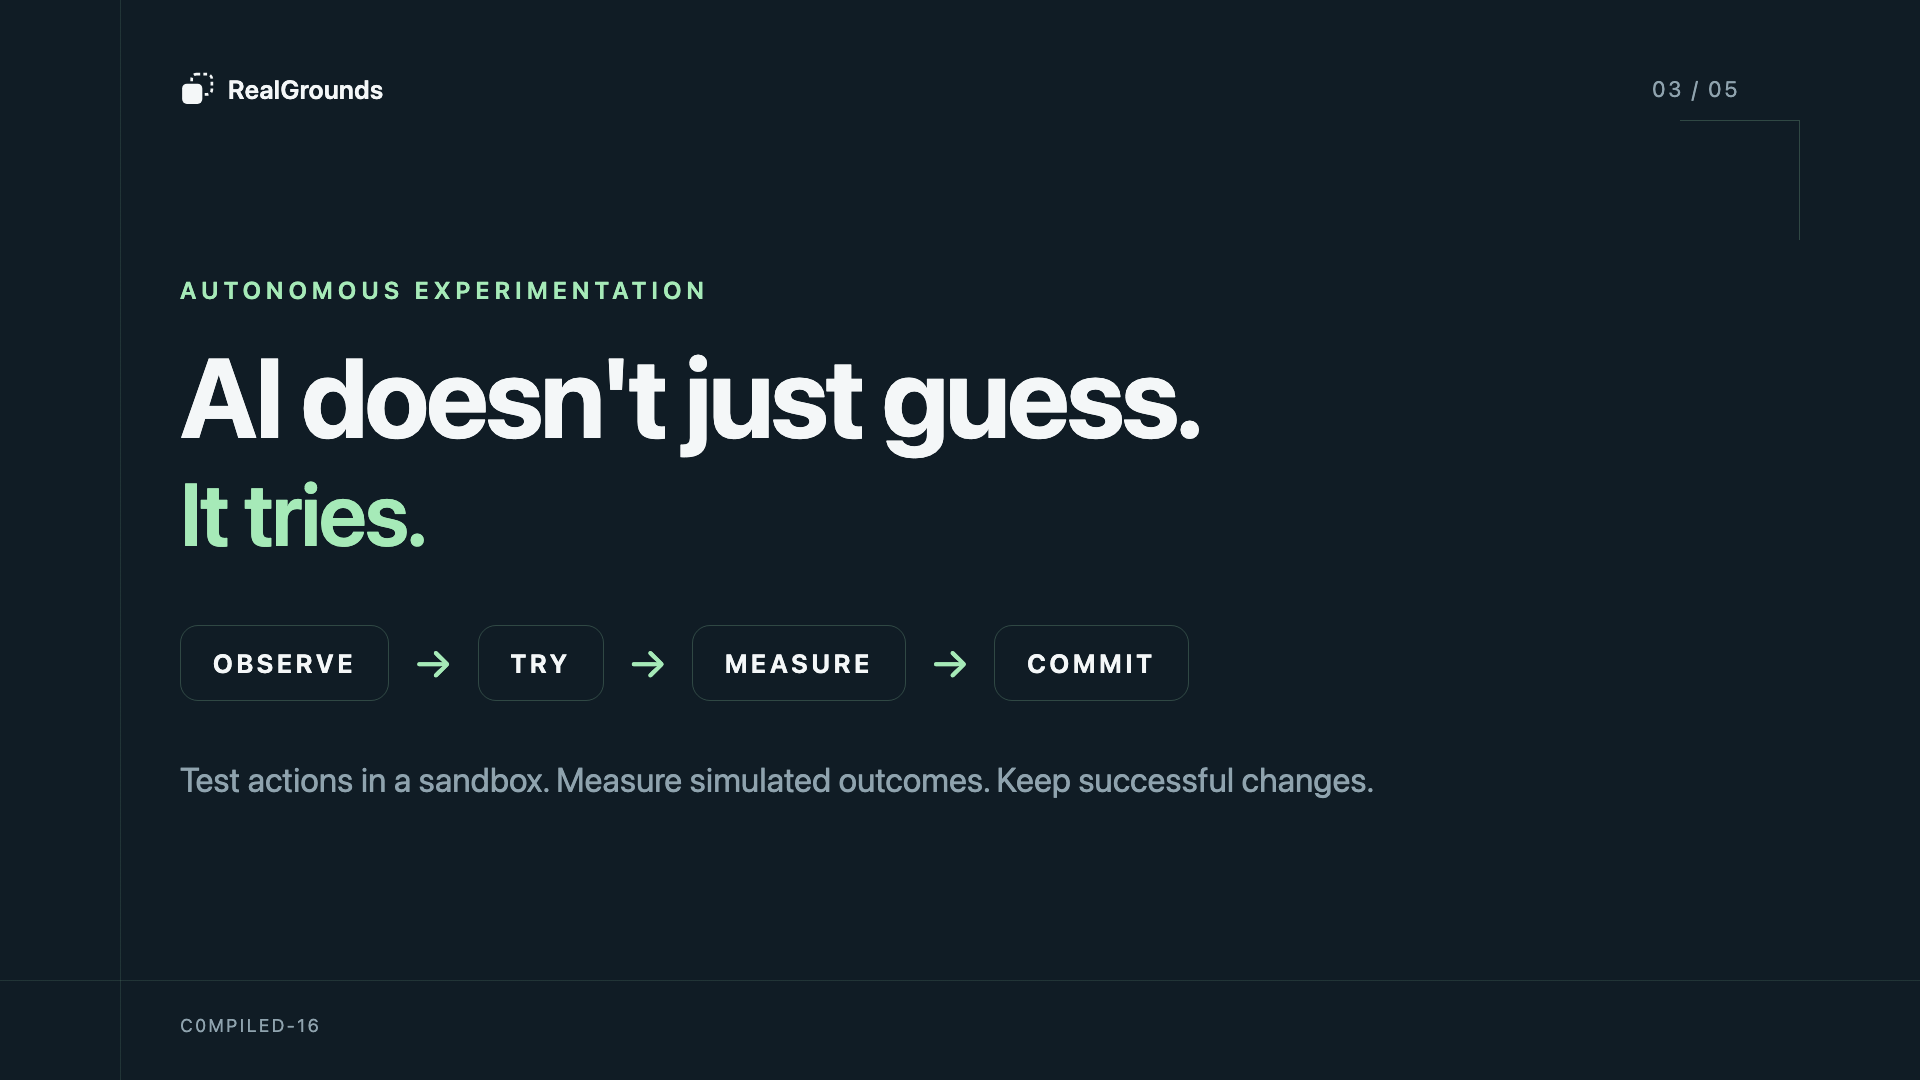
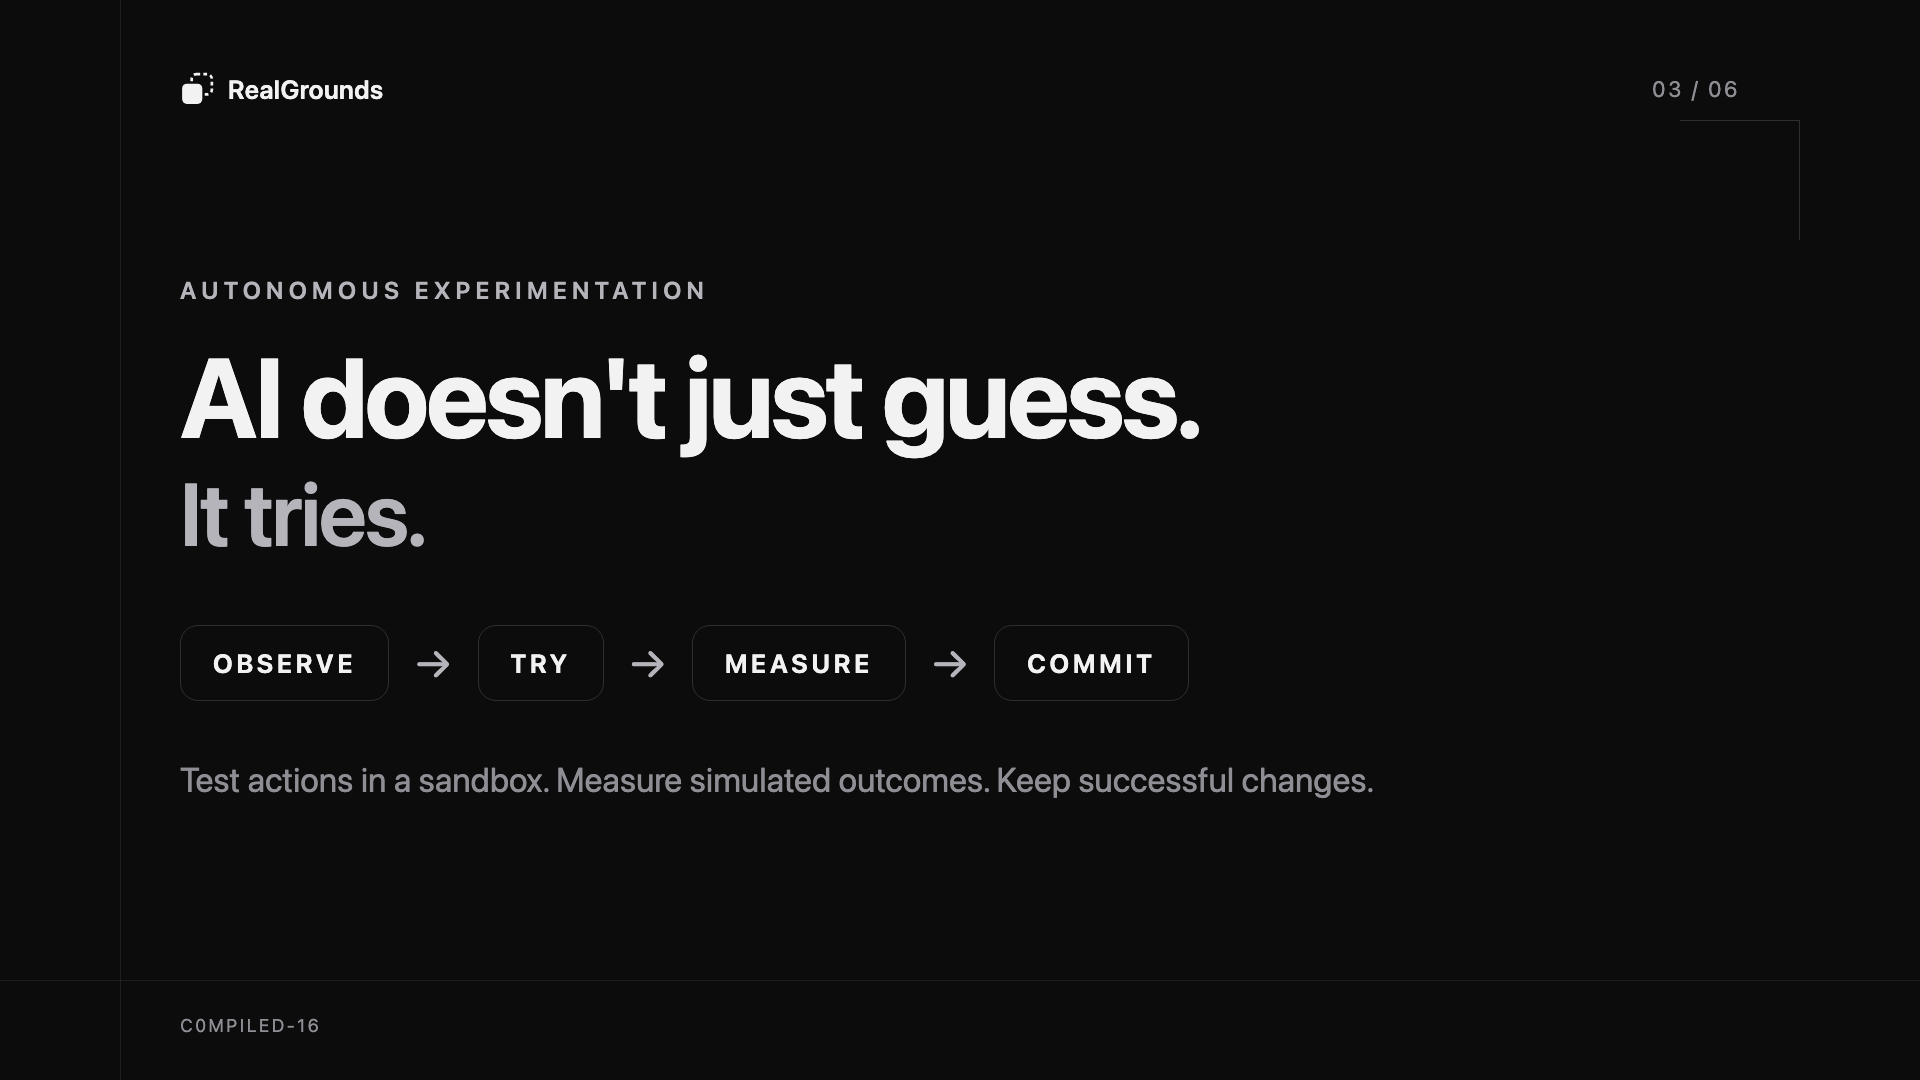
Run-it-yourself instructions on the site; experiments slide; slides in the site's colours

diff --git a/video_slides/slides.html b/video_slides/slides.html
@@ -5,9 +5,9 @@
 <meta name="viewport" content="width=device-width, initial-scale=1">
 <title>RealGrounds Video Slides</title>
 <style>
-:root { --bg: #101C25; --mint: #A6EAB8; --white: #F4F7F8; --dim: #8FA3AE; --line: rgba(166, 234, 184, .22); }
+:root { --bg: #0c0c0d; --mint: #b4b4ba; --white: #f2f2f3; --dim: #8e8e94; --line: rgba(255, 255, 255, .14); --card: #161617; }
 * { box-sizing: border-box; margin: 0; }
-html, body { background: #05090c; }
+html, body { background: #000; }
 body { font-family: -apple-system, BlinkMacSystemFont, "SF Pro Display", "Segoe UI", Inter, Helvetica, Arial, sans-serif; color: var(--white); }
 .slide { width: 1920px; height: 1080px; background: var(--bg); position: relative; overflow: hidden; display: none; padding: 0 180px; }
 .slide.on { display: flex; flex-direction: column; justify-content: center; }
@@ -40,6 +40,16 @@ h2 { font-size: 88px; line-height: 1.08; font-weight: 600; letter-spacing: -.02e
 .close { margin-top: 70px; padding-top: 44px; border-top: 1.5px solid var(--line); display: flex; align-items: baseline; gap: 40px; }
 .close strong { font-size: 54px; font-weight: 700; }
 .close span { font-size: 32px; color: var(--mint); }
+/* experiments slide */
+.exps { display: grid; grid-template-columns: repeat(3, 1fr); gap: 36px; margin-top: 60px; }
+.exp { background: var(--card); border: 1.5px solid var(--line); border-radius: 18px; overflow: hidden; }
+.exp img { width: 100%; display: block; aspect-ratio: 800 / 564; object-fit: cover; }
+.exp .b { padding: 22px 26px 26px; }
+.exp h3 { font-size: 34px; font-weight: 700; display: flex; justify-content: space-between; align-items: center; }
+.exp .tag { font-size: 18px; font-weight: 650; border: 1.5px solid currentColor; border-radius: 999px; padding: 4px 14px; letter-spacing: .02em; }
+.exp .what { font-size: 22px; color: var(--dim); margin-top: 10px; line-height: 1.4; }
+.exp .nums { font-size: 20px; color: var(--white); margin-top: 14px; letter-spacing: .02em; }
+.ok { color: #f2f2f3; } .stop { color: #d9a441; } .no { color: #b9bcc4; }
 /* slideshow preview (not in the PNGs) */
 body.show { display: grid; place-items: center; height: 100vh; overflow: hidden; }
 body.show .slide { transform-origin: center; }
@@ -53,7 +63,7 @@ body.show .slide { transform-origin: center; }
   <rect x="4" y="22" width="38" height="38" rx="9" fill="currentColor"/></symbol></svg>
 
 <section class="slide" data-n="1">
-  <div class="brand"><svg width="34" height="34"><use href="#logo"/></svg>RealGrounds</div><div class="num">01 / 05</div><div class="corner"></div>
+  <div class="brand"><svg width="34" height="34"><use href="#logo"/></svg>RealGrounds</div><div class="num">01 / 06</div><div class="corner"></div>
   <div class="kicker">The problem</div>
   <h1>AI can see the world.</h1>
   <h2>But can it predict what happens next?</h2>
@@ -62,7 +72,7 @@ body.show .slide { transform-origin: center; }
 </section>
 
 <section class="slide" data-n="2">
-  <div class="brand"><svg width="34" height="34"><use href="#logo"/></svg>RealGrounds</div><div class="num">02 / 05</div><div class="corner"></div>
+  <div class="brand"><svg width="34" height="34"><use href="#logo"/></svg>RealGrounds</div><div class="num">02 / 06</div><div class="corner"></div>
   <div class="kicker">The solution</div>
   <h1>From photos to physics.</h1>
   <div class="flow">
@@ -75,7 +85,7 @@ body.show .slide { transform-origin: center; }
 </section>
 
 <section class="slide" data-n="3">
-  <div class="brand"><svg width="34" height="34"><use href="#logo"/></svg>RealGrounds</div><div class="num">03 / 05</div><div class="corner"></div>
+  <div class="brand"><svg width="34" height="34"><use href="#logo"/></svg>RealGrounds</div><div class="num">03 / 06</div><div class="corner"></div>
   <div class="kicker">Autonomous experimentation</div>
   <h1>AI doesn't just guess.</h1>
   <h2>It tries.</h2>
@@ -88,7 +98,7 @@ body.show .slide { transform-origin: center; }
 </section>
 
 <section class="slide" data-n="4">
-  <div class="brand"><svg width="34" height="34"><use href="#logo"/></svg>RealGrounds</div><div class="num">04 / 05</div><div class="corner"></div>
+  <div class="brand"><svg width="34" height="34"><use href="#logo"/></svg>RealGrounds</div><div class="num">04 / 06</div><div class="corner"></div>
   <div class="kicker">Track 3 · Unsupervised</div>
   <h1>Autonomous. Not uncontrolled.</h1>
   <div class="grid4">
@@ -102,7 +112,23 @@ body.show .slide { transform-origin: center; }
 </section>
 
 <section class="slide" data-n="5">
-  <div class="brand"><svg width="34" height="34"><use href="#logo"/></svg>RealGrounds</div><div class="num">05 / 05</div><div class="corner"></div>
+  <div class="brand"><svg width="34" height="34"><use href="#logo"/></svg>RealGrounds</div><div class="num">05 / 06</div><div class="corner"></div>
+  <div class="kicker">The experiments · hand-made test rooms</div>
+  <h1 style="font-size:84px">Three rooms. One task.</h1>
+  <p class="sub" style="margin-top:22px">Walk through the gap to the far side. Recorded runs, Claude Haiku 5.5 planning.</p>
+  <div class="exps">
+    <div class="exp"><img src="exp_light.png" alt=""><div class="b"><h3>Light <span class="tag ok">✓ Solved</span></h3>
+      <div class="what">A 1 kg box blocks the gap. It moves the box onto the dresser.</div><div class="nums">1 try · 1 kept · $0.0007</div></div></div>
+    <div class="exp"><img src="exp_heavy.png" alt=""><div class="b"><h3>Heavy <span class="tag stop">! Stopped</span></h3>
+      <div class="what">A 40 kg test box; the arm lifts 15 kg. Stuck, so it asks for help.</div><div class="nums">4 tries · 0 kept · $0.0010</div></div></div>
+    <div class="exp"><img src="exp_wall.png" alt=""><div class="b"><h3>Wall <span class="tag no">⊘ Impossible</span></h3>
+      <div class="what">Fixed furniture fills the gap. It stops at once, tries nothing.</div><div class="nums">0 tries · $0</div></div></div>
+  </div>
+  <div class="foot">c0mpiled-16 · simulated results</div>
+</section>
+
+<section class="slide" data-n="6">
+  <div class="brand"><svg width="34" height="34"><use href="#logo"/></svg>RealGrounds</div><div class="num">06 / 06</div><div class="corner"></div>
   <div class="kicker">Results</div>
   <div class="metrics">
     <div class="metric"><b>44<span>/44</span></b><div>Automated tests passed</div></div>
@@ -128,8 +154,8 @@ function show() {
   }
 }
 if (exportMode) document.getElementById("hint").remove(); else document.body.classList.add("show");
-addEventListener("keydown", (e) => { if (e.key === "ArrowRight" || e.key === " ") i = Math.min(i + 1, 4); if (e.key === "ArrowLeft") i = Math.max(i - 1, 0); show(); });
-addEventListener("click", () => { i = (i + 1) % 5; show(); });
+addEventListener("keydown", (e) => { if (e.key === "ArrowRight" || e.key === " ") i = Math.min(i + 1, 5); if (e.key === "ArrowLeft") i = Math.max(i - 1, 0); show(); });
+addEventListener("click", () => { i = (i + 1) % 6; show(); });
 addEventListener("resize", show);
 show();
 </script>

diff --git a/web/index.html b/web/index.html
@@ -17,6 +17,7 @@
       <a href="#lab">Live Lab</a>
       <a href="#safety">Safety</a>
       <a href="#results">Results</a>
+      <a href="#run">Run it yourself</a>
     </nav>
     <div class="pill" id="budget" title="The app's own supervisor: Claude is refused once this budget is spent">Claude budget …</div>
   </div>
@@ -91,7 +92,7 @@
 
     <div class="card static-note"><h3>Published snapshot</h3><p class="muted">Explore the rooms below as they were
       measured. Running the agent, uploading a photo and running the tests need the local app:
-      <code>python app.py</code> in the project folder.</p></div>
+      <code>python app.py</code> in the project folder. See <a href="#run">Run it yourself</a>.</p></div>
     <div class="card step">
       <div class="step-n">1</div>
       <div class="step-body">
@@ -219,6 +220,56 @@
         <li><b>The loop detector has not triggered in a real run.</b> Loops can't be kept (only measurable improvement is kept), and repeated proposals are refused before they run.</li>
         <li><b>Claude's plans vary between runs</b>; the physics does not. That is why solutions are re-checked by replay.</li>
       </ul></div>
+  </div>
+</section>
+<!-- ================================================================ RUN IT YOURSELF -->
+<section class="view" id="view-run">
+  <div class="wrap">
+    <p class="eyebrow">Run it yourself</p>
+    <h2 class="page">Reproduce the experiments</h2>
+    <p class="sec-sub">Everything on this site comes from code you can run. The three experiments need only the physics
+      engine: no vision models, no GPU. Claude is optional; the fixed-rules planner is free and needs no key.</p>
+
+    <div class="card step"><div class="step-n">1</div><div class="step-body">
+      <h3>Get the code and install</h3>
+      <p class="muted">Tested on macOS (Apple Silicon) with Python 3.14.</p>
+<pre class="cmd">git clone &lt;repository URL from our submission&gt; realgrounds
+cd realgrounds
+python3 -m venv .venv &amp;&amp; source .venv/bin/activate
+pip install numpy opencv-python pyyaml mujoco anthropic</pre>
+    </div></div>
+
+    <div class="card step"><div class="step-n">2</div><div class="step-body">
+      <h3>Run the three experiments (about 10 seconds each)</h3>
+<pre class="cmd">python run_task.py --scene light --planner rules --video   # solved: the box is moved out of the way
+python run_task.py --scene heavy --planner rules --video   # stops: 40 kg test box, the arm lifts 15 kg
+python run_task.py --scene wall  --planner rules           # stops at once: impossible by geometry</pre>
+      <p class="muted">Each run writes <code>outputs/tasks/&lt;scene&gt;/</code>: <code>report.md</code> (every try, what was
+        kept, the supervisor's decision), <code>video.mp4</code> and <code>stills.png</code>.</p>
+    </div></div>
+
+    <div class="card step"><div class="step-n">3</div><div class="step-body">
+      <h3>Let Claude plan (optional)</h3>
+<pre class="cmd">echo "ANTHROPIC_API_KEY=sk-ant-..." &gt; .env              # stays local, git-ignored
+python run_task.py --scene heavy --planner claude --video  # about $0.001 per run with Claude Haiku 5.5</pre>
+      <p class="muted">Try the stop rules: <code>--max-tries 1</code> stops on the attempt limit. Every Claude call is priced and
+        counted; the supervisor stops a task when its budget is spent.</p>
+    </div></div>
+
+    <div class="card step"><div class="step-n">4</div><div class="step-body">
+      <h3>Check the claims</h3>
+<pre class="cmd">pip install pillow matplotlib trimesh
+python -m unittest discover -s tests -t .                 # 44 tests, about 7 s, no network, no cost</pre>
+    </div></div>
+
+    <div class="card step"><div class="step-n">5</div><div class="step-body">
+      <h3>The full app and your own photos</h3>
+<pre class="cmd">pip install -r requirements.txt                          # plus MoGe-2, see requirements.txt
+python app.py                                             # this site, live, at http://127.0.0.1:8000</pre>
+      <p class="muted">Rebuilding rooms from photos needs the four vision models in <code>models/</code> (MoGe-2, SegFormer,
+        Grounding DINO, SAM; about a minute per photo on an M-series Mac). The README lists them. With the app running, every
+        button on this site works: run the experiments live, upload a photo, run the tests.</p>
+    </div></div>
   </div>
 </section>
 </main>

diff --git a/web/app.js b/web/app.js
@@ -94,9 +94,9 @@ const plannerName = (p) => p === "fixed rules" ? "fixed rules (no AI)" : (p || "
 const clean = (s) => String(s || "").replace(/^[✗✓↩\s]+/, "").replace(/^refused:\s*/, "");
 
 // ================================================================ router
-const VIEWS = ["overview", "experiments", "lab", "safety", "results"];
+const VIEWS = ["overview", "experiments", "lab", "safety", "results", "run"];
 const ALIAS = { try: "lab", stops: "experiments", runs: "results" };
-const LOADERS = { overview: loadOverview, experiments: loadExperiments, lab: loadLab, safety: loadSafety, results: loadResults };
+const LOADERS = { overview: loadOverview, experiments: loadExperiments, lab: loadLab, safety: loadSafety, results: loadResults, run: () => {} };
 function route() {
   let [v, q] = location.hash.slice(1).split("?");
   v = ALIAS[v] || v;

diff --git a/web/style.css b/web/style.css
@@ -242,3 +242,5 @@ figcaption { font-size: 12.5px; color: var(--muted); margin-top: 4px; }
 body.static .static-note { display: block; }
 body.static .live-only { display: none !important; }
 code { font-family: var(--mono); font-size: .92em; background: var(--bg2); border: 1px solid var(--line); border-radius: 5px; padding: 0 5px; }
+pre.cmd { font: 13.5px/1.6 var(--mono); background: var(--bg2); border: 1px solid var(--line); border-radius: 10px; padding: 12px 14px;
+  overflow-x: auto; color: var(--text); margin: 8px 0; white-space: pre; }
